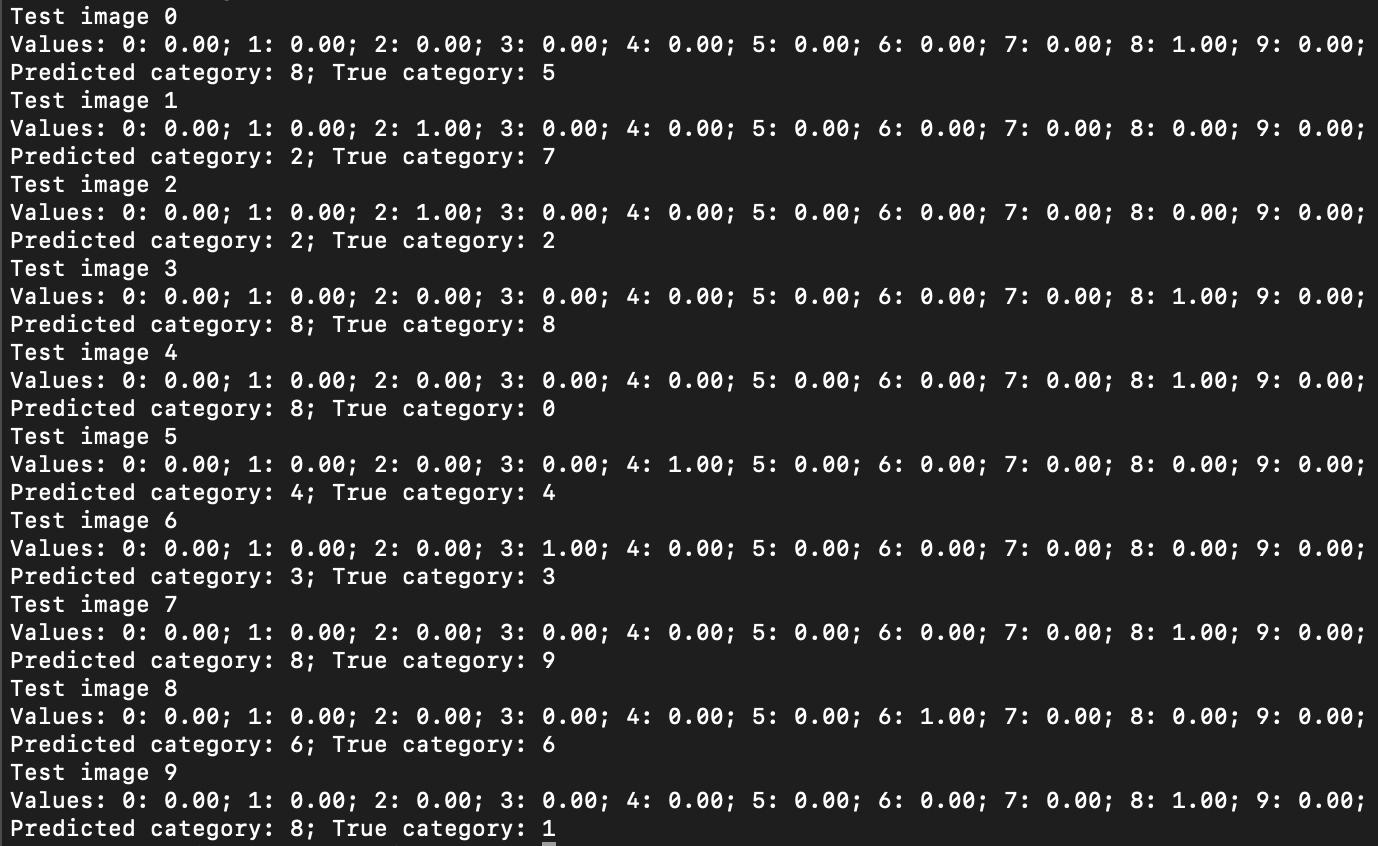
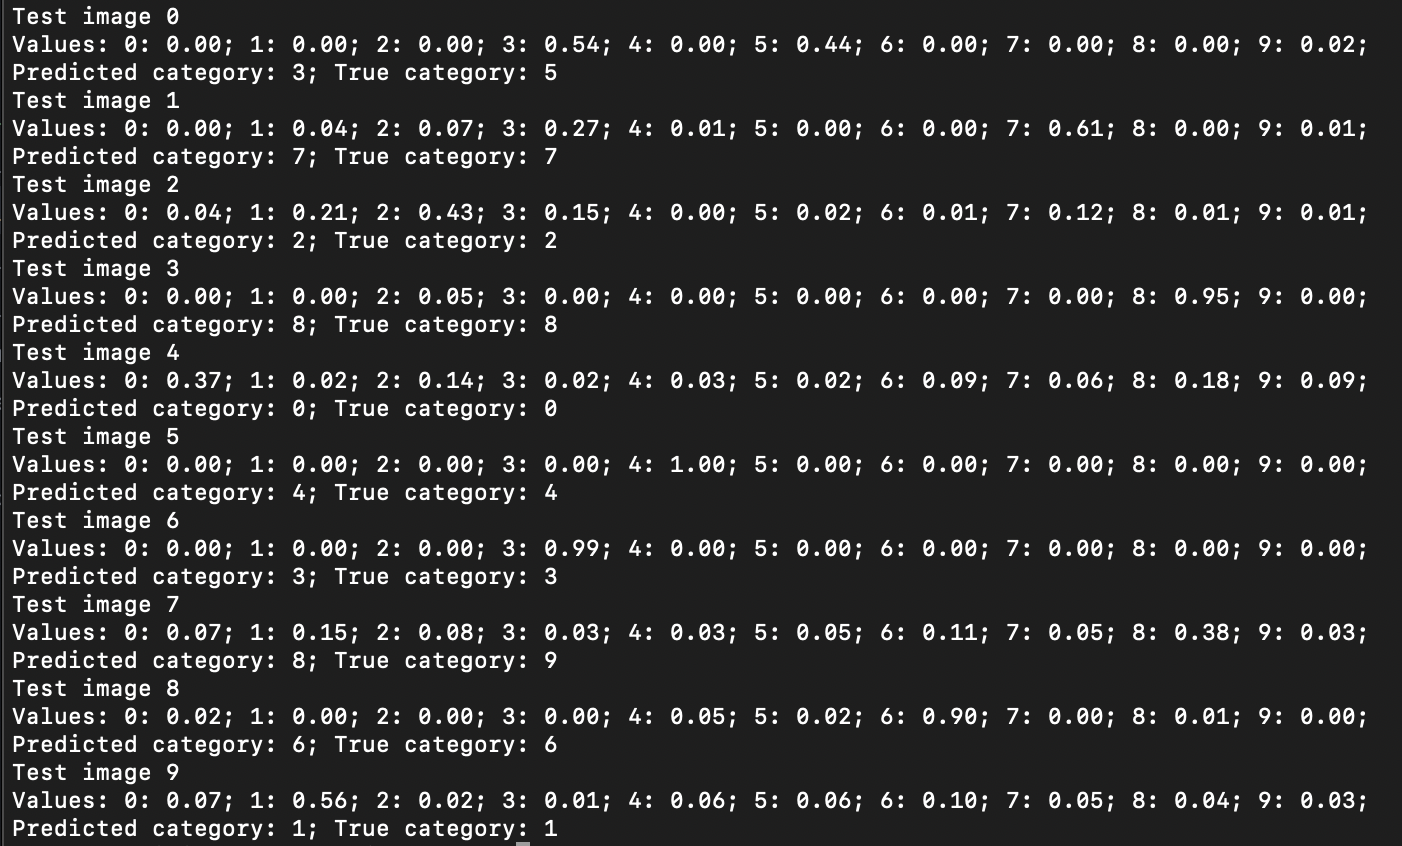
task3a + fix previous evaluate

Changed region(s): [[0.0936, 0.0, 0.9985, 1.0], [0.0, 0.0, 0.0624, 1.0]]

diff --git a/project5/src/greek_data_processing.py b/project5/src/greek_data_processing.py
@@ -1,0 +1,87 @@
+# greek_data_processing.py
+# Mike Zheng and Heidi He
+# 4/27/19
+#
+# process greek data images to data+label
+#
+# python3 greek_data_processing.py ../data/greek/ ../data/
+
+import sys
+import os
+import cv2
+# these two lines are used for running on server
+import matplotlib
+# Force matplotlib to not use any Xwindows backend.
+matplotlib.use('Agg')
+
+import matplotlib.pyplot as plt
+
+# return a list of file paths of a given directory
+def readdir(dir):
+    filelist = []
+    for root, directories, filenames in os.walk(dir):
+        # for directory in directories:
+        #     print(os.path.join(root, directory))
+        for filename in filenames:
+            if filename[0] != '.':
+                filelist.append(os.path.join(root,filename))
+    return filelist
+
+def main(argv):
+
+    # usage
+    if len(argv)<3:
+        print("Usage: python3 %s <image dir> <output dir>" % argv[0])
+        exit()
+
+    # read image directory
+    try:
+        filelist = readdir(argv[1])
+    except:
+        print("Unable to read from directory, exiting")
+        exit()
+
+    letter2idx = {"alpha":0, "beta":1, "gamma":3}
+
+    # open files to write
+    if argv[2][-1]=="/":
+        path = argv[2]
+    else:
+        path = argv[2]+"/"
+    fp_d = open(path+"greek_data.csv","w")
+    s = ""
+    for i in range(784):
+        s+="intensity%d," % i
+    s = s[:-1]+"\n"
+    fp_d.write(s)
+    fp_l = open(path+"greek_labels.csv", "w")
+    fp_l.write("category\n")
+
+    # go through filelist and write to csv
+    for file in filelist:
+
+        # write labels
+        idx = letter2idx[file.split('/')[-1].split('.')[0].split('_')[0]]
+        fp_l.write("%d\n"%idx)
+
+        # write data
+        img = cv2.imread(file)
+        gray = cv2.cvtColor(img, cv2.COLOR_BGR2GRAY)
+        img_resized = cv2.resize(gray, (28, 28))
+        img_resized_inverted = cv2.bitwise_not(img_resized)
+
+        # plt.imshow(img_resized_inverted, cmap="gray")
+        # plt.savefig("test.png")
+        s = ""
+        for i in range(img_resized_inverted.shape[0]):
+            for j in range(img_resized_inverted.shape[1]):
+                s+=str(img_resized_inverted[i,j])+","
+        s = s[:-1]+"\n"
+        fp_d.write(s)
+
+
+    fp_d.close()
+    fp_l.close()
+
+if __name__ == "__main__":
+    main(sys.argv)

diff --git a/project5/src/mnist_evaluate.py b/project5/src/mnist_evaluate.py
@@ -98,7 +98,10 @@ def main(argv):
         # plt.close()
 
         # predict
-        results = model.predict(np.array(x_test))
+        x_test = np.array(x_test)
+        x_test = x_test.astype('float32')
+        x_test /= 255
+        results = model.predict(x_test)
 
     else:
         print("Unknown test data source, exiting")
